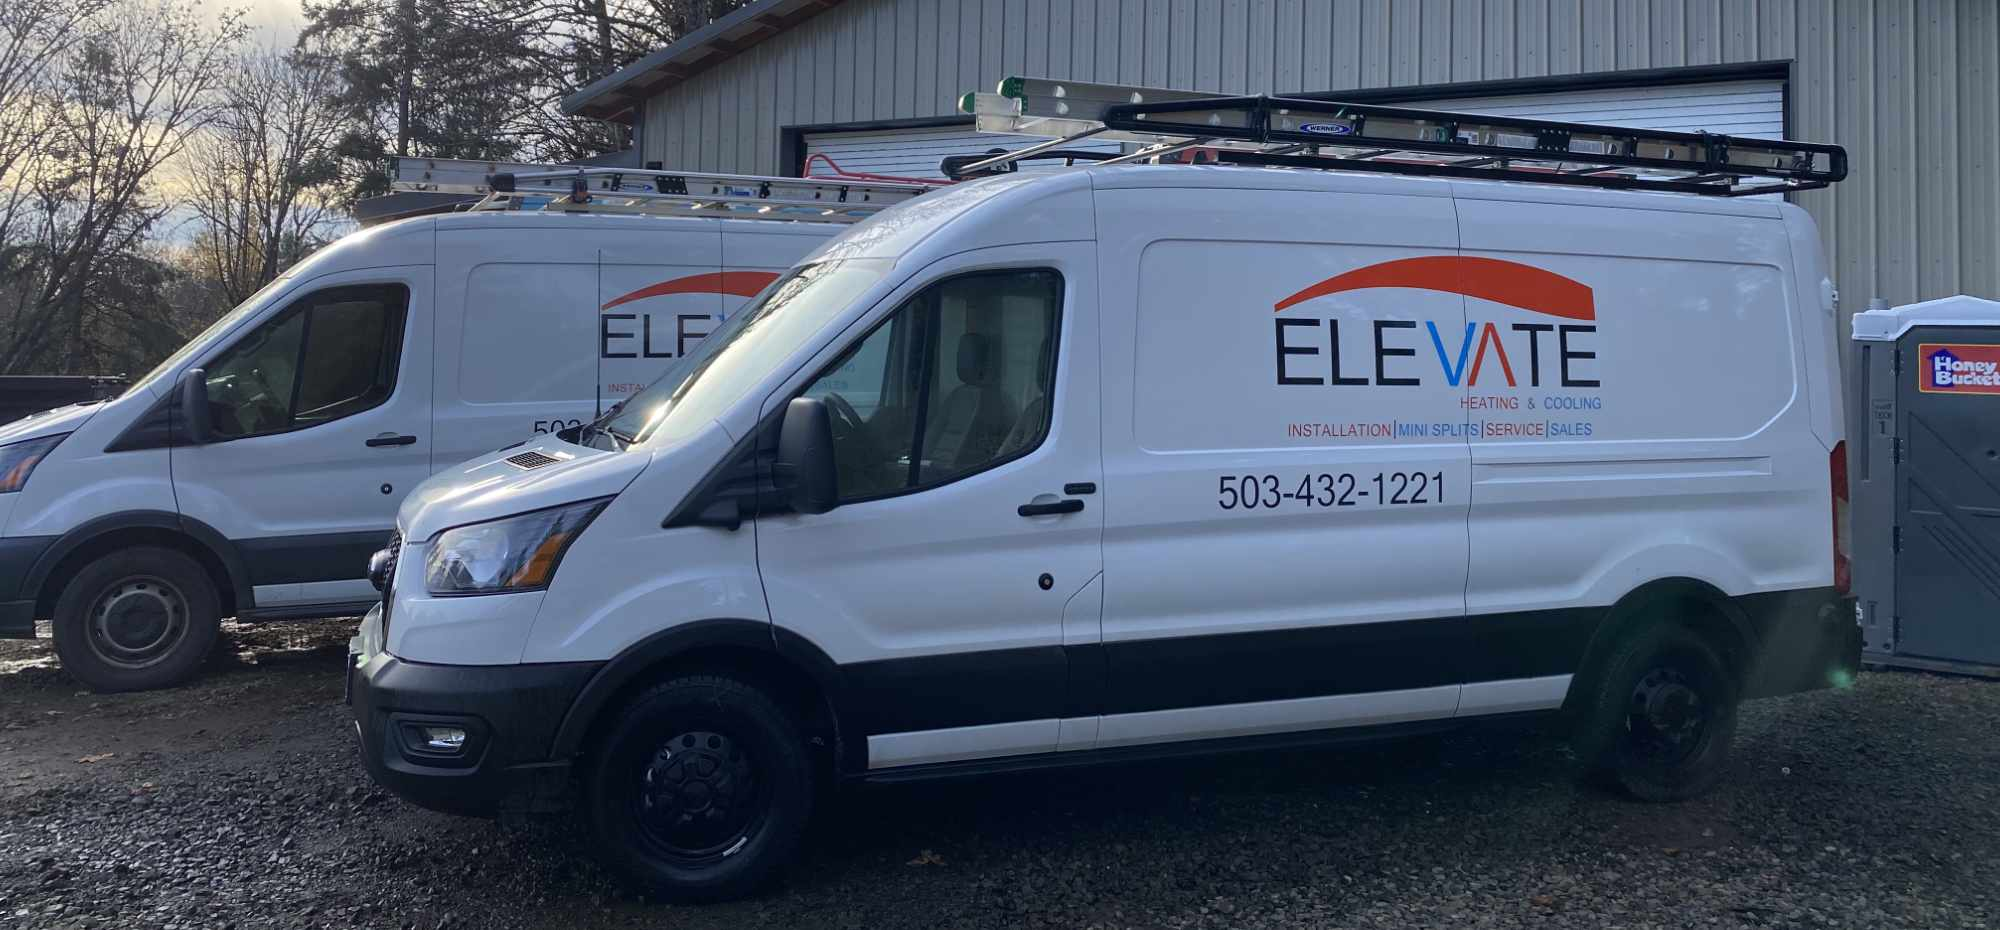
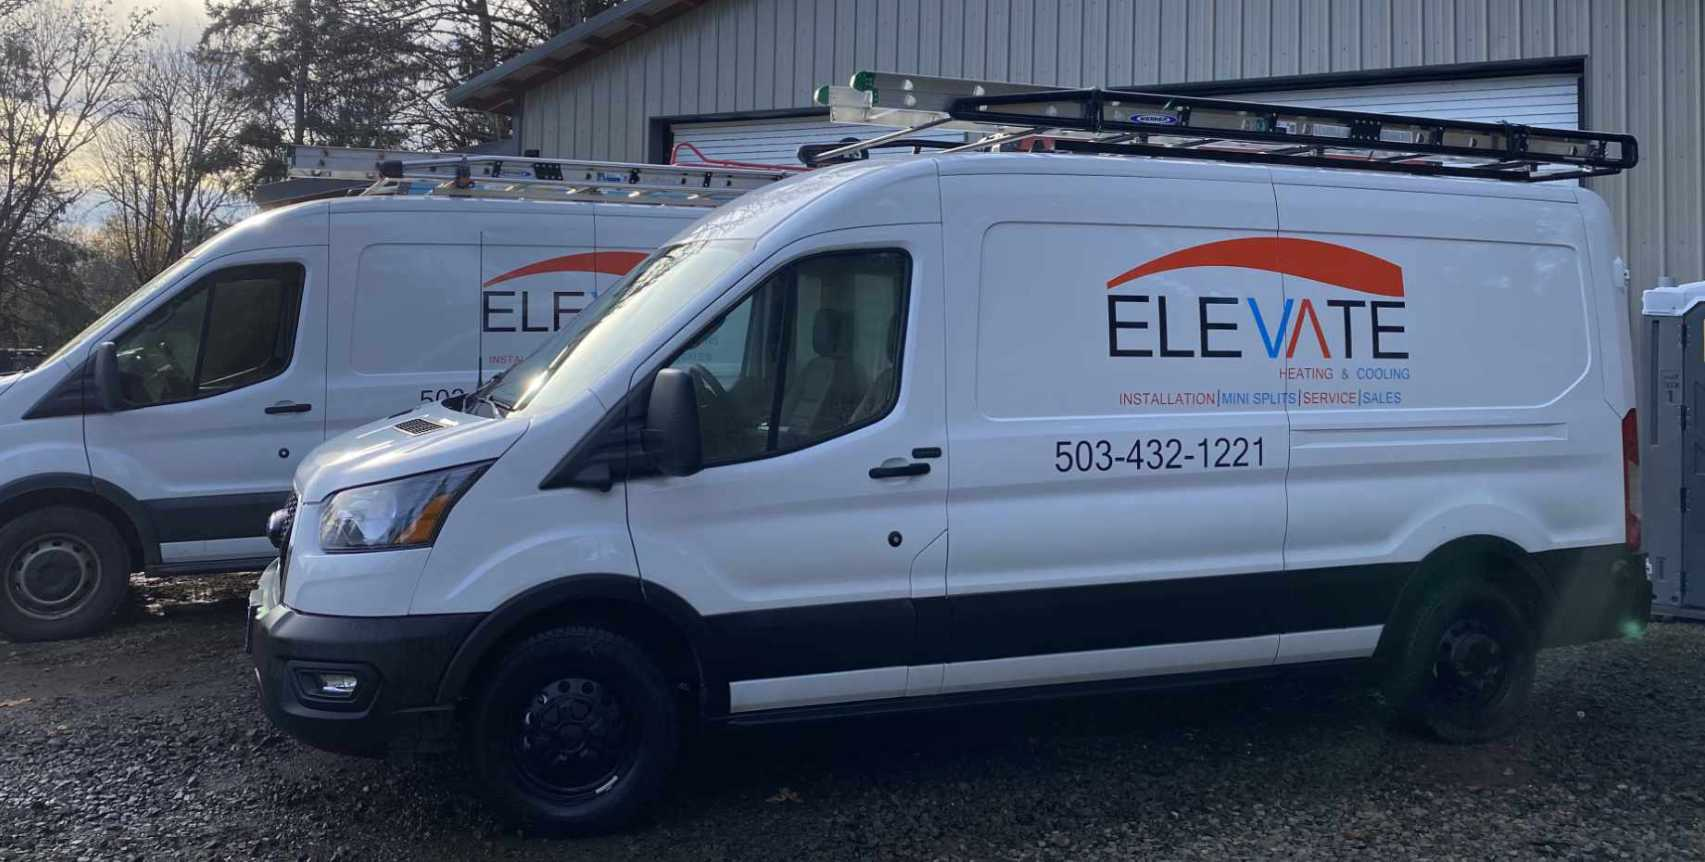
update van hero size dimensions

diff --git a/layouts/index.html b/layouts/index.html
@@ -24,7 +24,7 @@
                 </div>
             </div>
             {{ with resources.Get "images/van-hero.jpg" }}
-            {{ with .Resize (printf "%dx%d webp q30" .Width .Height) }}
+            {{ with .Resize (printf "%dx%d webp q20" .Width .Height) }}
                 <img loading="eager" class="hero-img" src="{{ .RelPermalink }}" width="1705" height="862" alt="Hillsboro's Trusted Air Conditioning & Heating Company">
             {{ end }}
             {{ end }}
